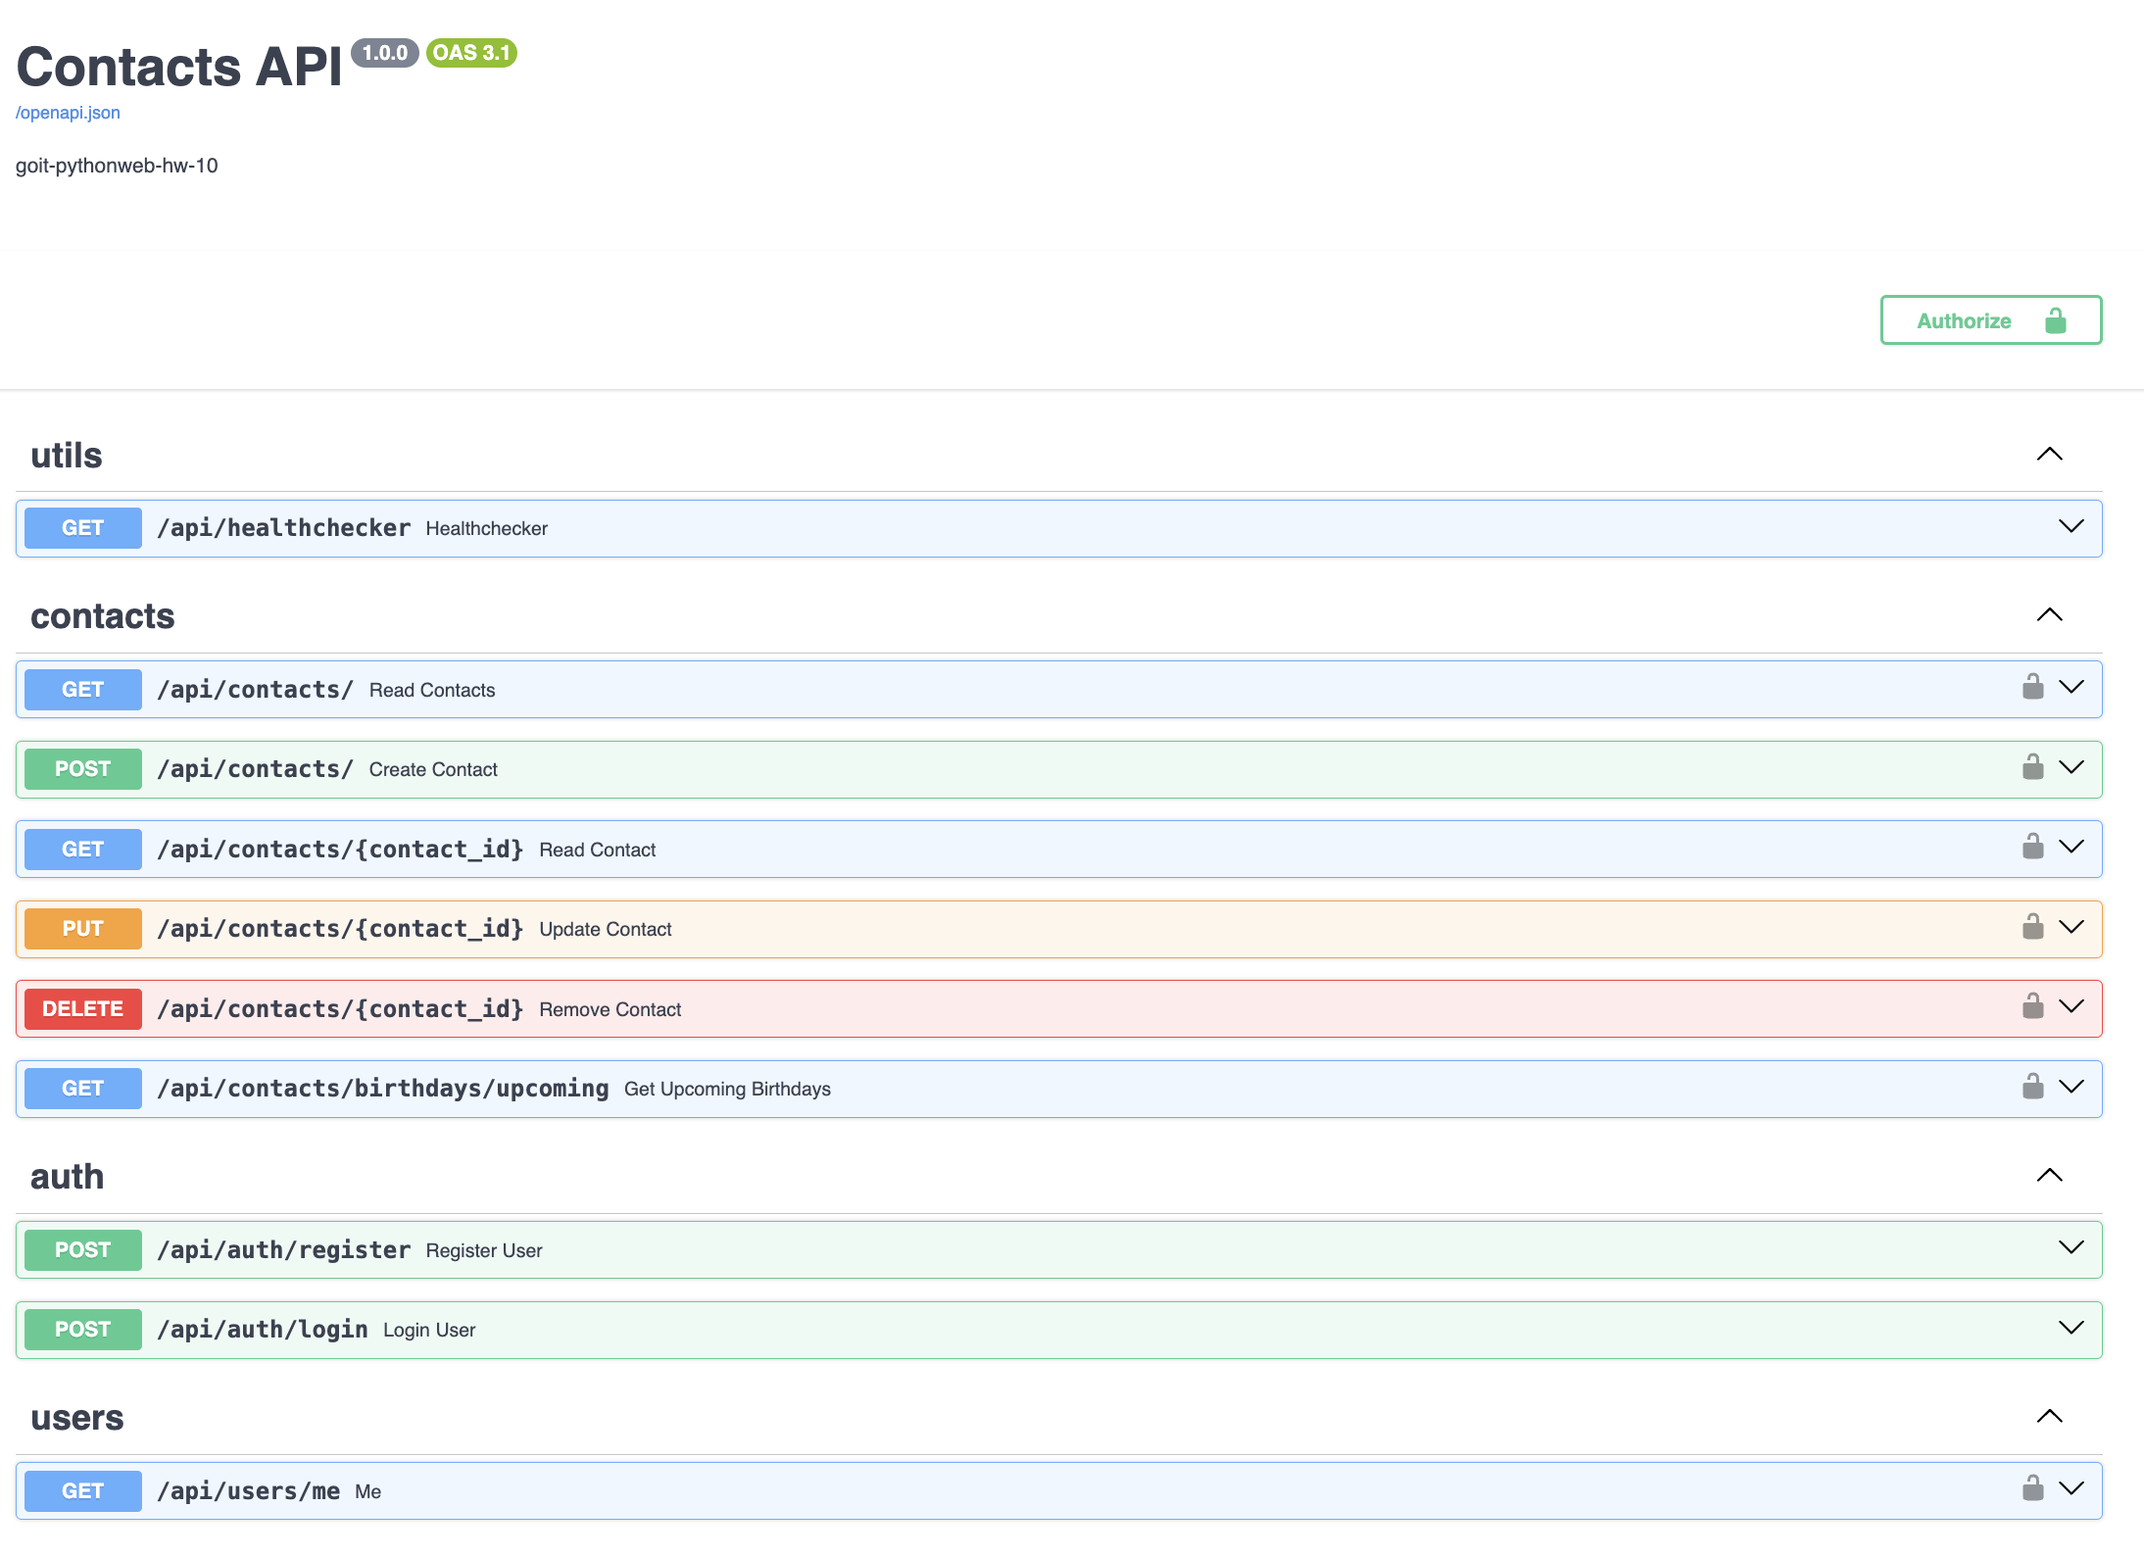
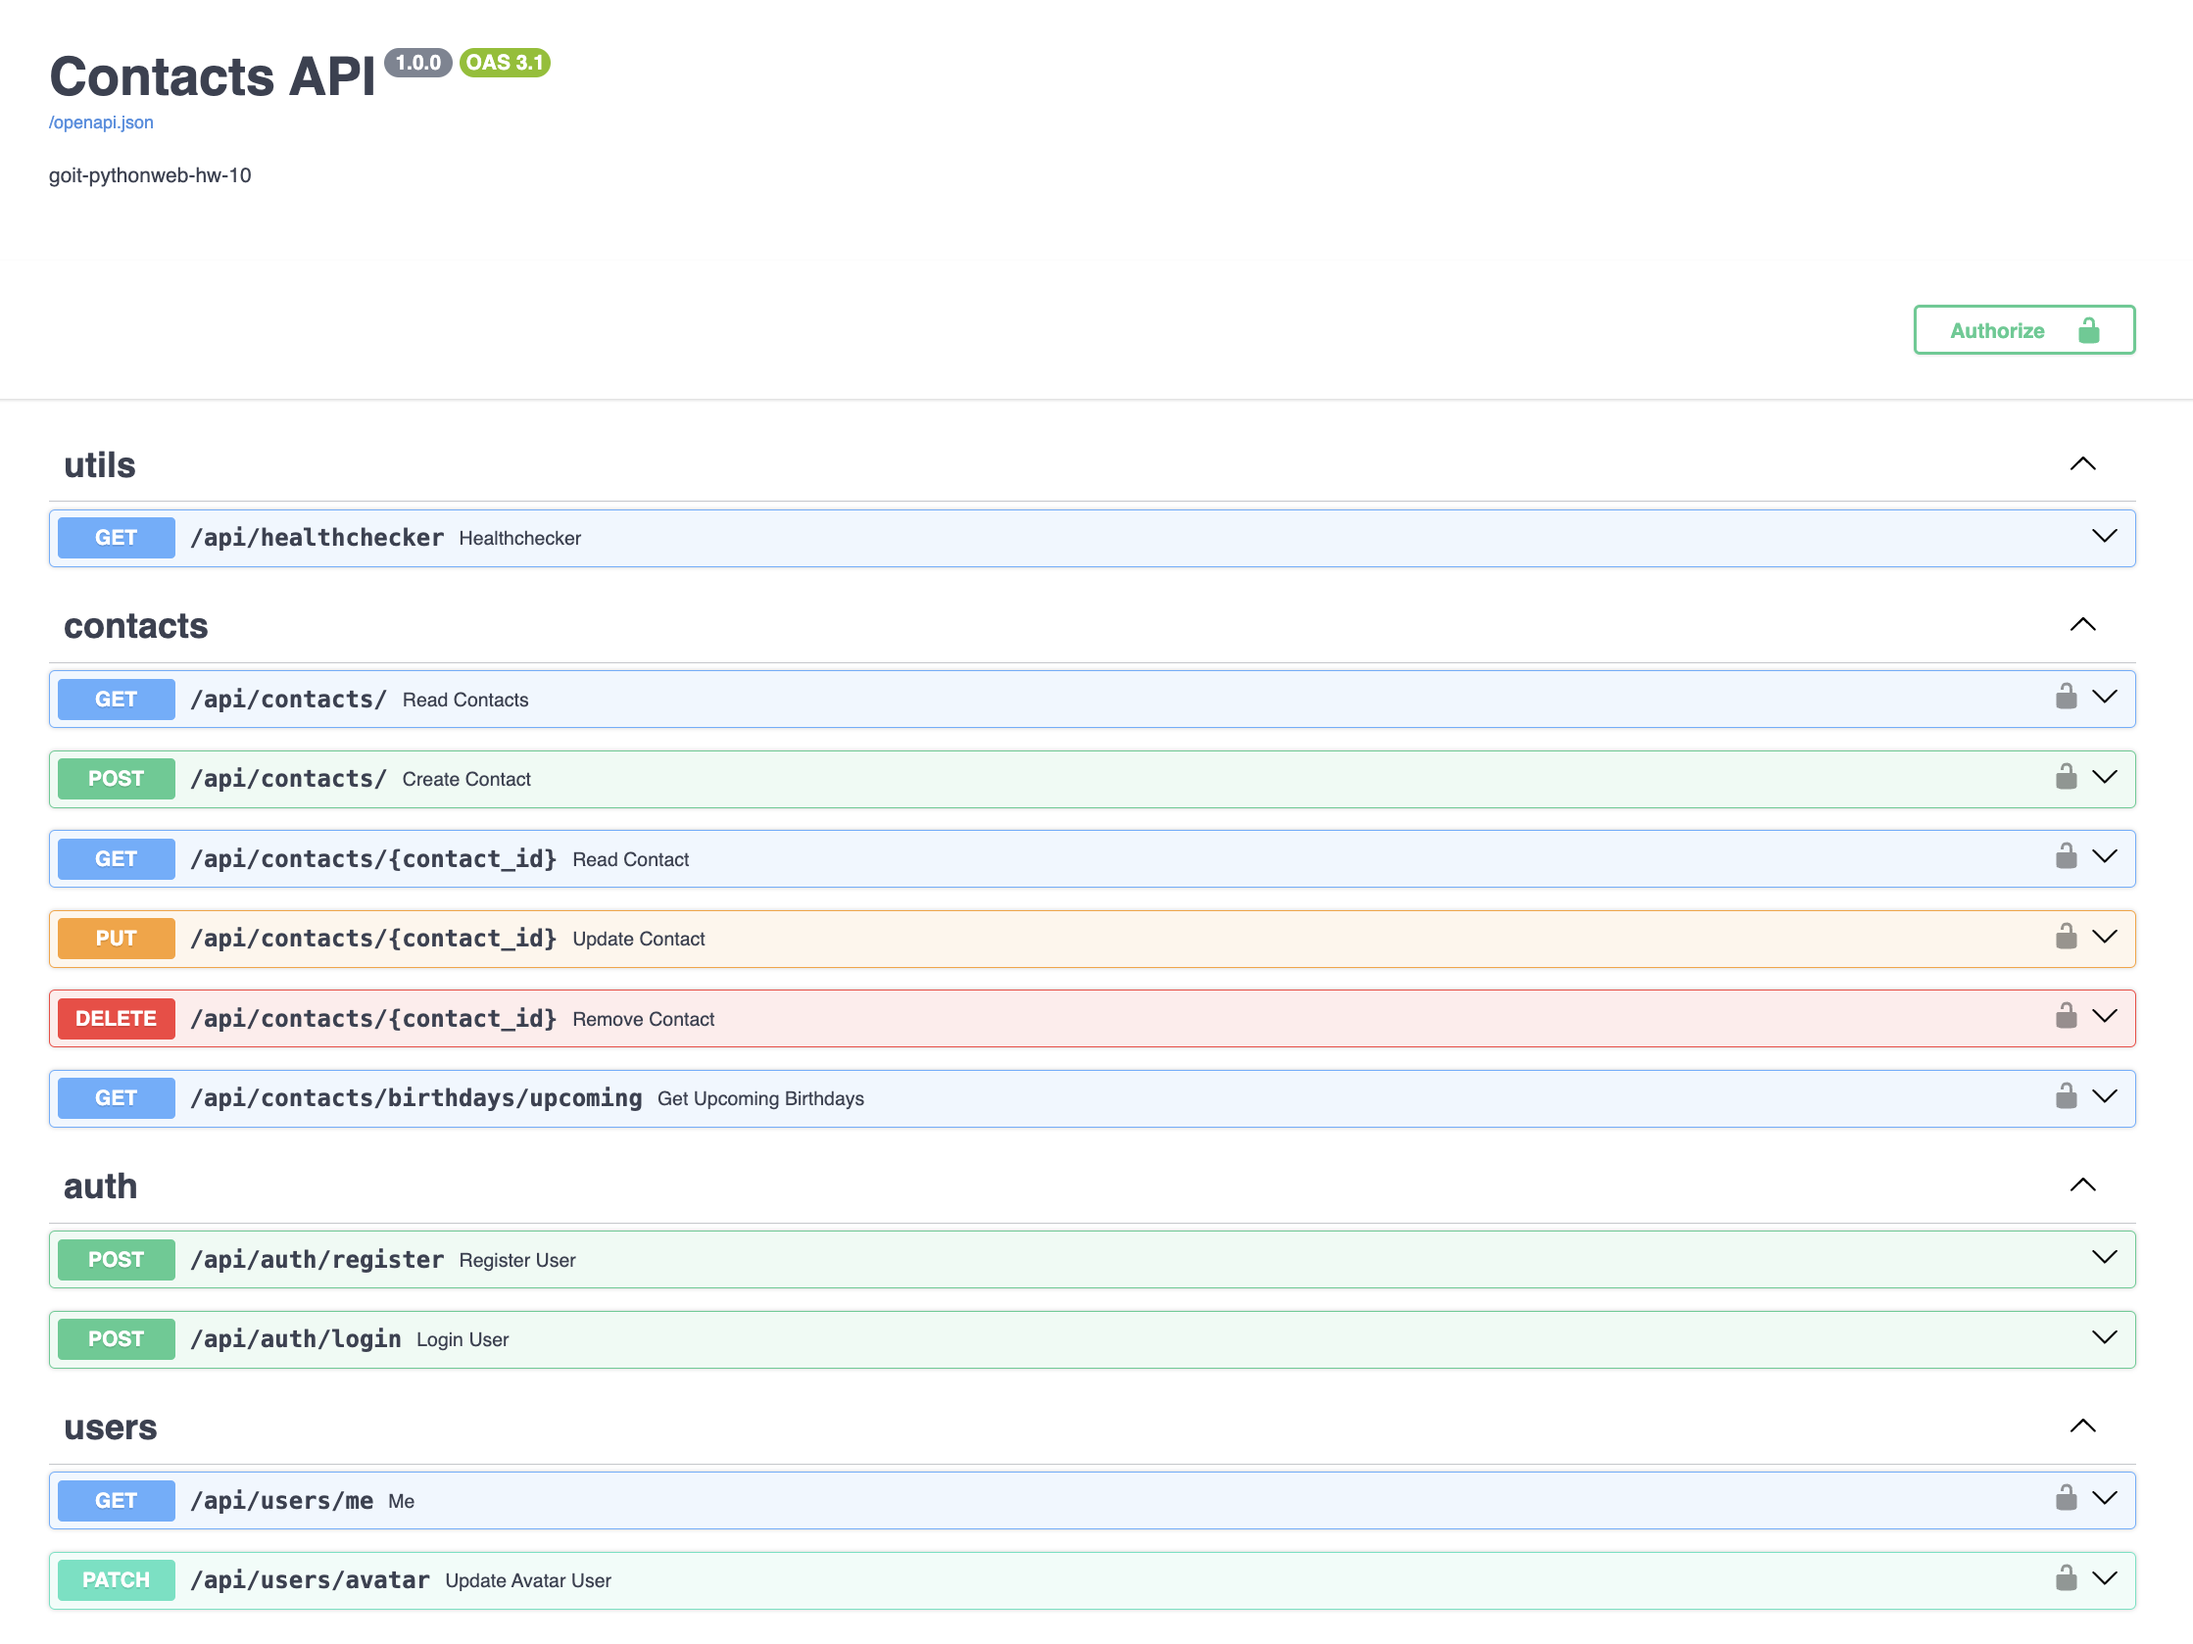
avtar upload via cloudinary

Changed region(s): [[0.0, 0.2777, 0.9634, 0.9874], [0.0, 0.0, 0.2486, 0.1234], [0.8702, 0.1851, 0.9945, 0.216]]

diff --git a/src/api/users.py b/src/api/users.py
@@ -1,9 +1,14 @@
-from fastapi import APIRouter, Depends, Request
+from fastapi import APIRouter, Depends, File, Request, UploadFile
 from slowapi import Limiter
 from slowapi.util import get_remote_address
+from sqlalchemy.ext.asyncio import AsyncSession
+from src.database.db import get_db
 
 from src.schemas import User
+from src.conf.config import settings
 from src.services.auth import get_current_user
+from src.services.users import UserService
+from src.services.upload_file import UploadFileService
 
 router = APIRouter(prefix="/users", tags=["users"])
 limiter = Limiter(key_func=get_remote_address)
@@ -13,3 +18,17 @@ limiter = Limiter(key_func=get_remote_address)
 @limiter.limit("10/minute")
 async def me(request: Request, user: User = Depends(get_current_user)):
     return user
+
+
+@router.patch("/avatar", response_model=User)
+async def update_avatar_user(
+    file: UploadFile = File(),
+    user: User = Depends(get_current_user),
+    db: AsyncSession = Depends(get_db),
+):
+    avatar_url = UploadFileService(
+        settings.CLD_NAME, settings.CLD_API_KEY, settings.CLD_API_SECRET
+    ).upload_file(file, user.username)
+
+    user_service = UserService(db)
+    return await user_service.update_avatar_url(user.email, avatar_url)

diff --git a/src/services/upload_file.py b/src/services/upload_file.py
@@ -1,0 +1,24 @@
+import cloudinary
+import cloudinary.uploader
+
+
+class UploadFileService:
+    def __init__(self, cloud_name, api_key, api_secret):
+        self.cloud_name = cloud_name
+        self.api_key = api_key
+        self.api_secret = api_secret
+        cloudinary.config(
+            cloud_name=self.cloud_name,
+            api_key=self.api_key,
+            api_secret=self.api_secret,
+            secure=True,
+        )
+
+    @staticmethod
+    def upload_file(file, username) -> str:
+        public_id = f"RestApp/{username}"
+        r = cloudinary.uploader.upload(file.file, public_id=public_id, overwrite=True)
+        src_url = cloudinary.CloudinaryImage(public_id).build_url(
+            width=250, height=250, crop="fill", version=r.get("version")
+        )
+        return src_url

diff --git a/src/repository/users.py b/src/repository/users.py
@@ -35,3 +35,13 @@ class UserRepository:
         await self.db.commit()
         await self.db.refresh(user)
         return user
+
+    async def update_avatar_url(self, email: str, url: str) -> User:
+        user = await self.get_user_by_email(email)
+        if user:
+            user.avatar = url
+            await self.db.commit()
+            await self.db.refresh(user)
+            return user
+        else:
+            raise ValueError("User not found")

diff --git a/src/services/auth.py b/src/services/auth.py
@@ -43,7 +43,6 @@ async def create_access_token(data: dict, expires_delta: Optional[int] = None):
 async def get_current_user(
     token: str = Depends(oauth2_scheme), db: AsyncSession = Depends(get_db)
 ):
-    print(jwt)
     credentials_exception = HTTPException(
         status_code=status.HTTP_401_UNAUTHORIZED,
         detail="Could not validate credentials",

diff --git a/src/services/users.py b/src/services/users.py
@@ -28,3 +28,6 @@ class UserService:
 
     async def get_user_by_email(self, email: str):
         return await self.repository.get_user_by_email(email)
+
+    async def update_avatar_url(self, email: str, url: str):
+        return await self.repository.update_avatar_url(email, url)

diff --git a/src/conf/config.py b/src/conf/config.py
@@ -7,6 +7,9 @@ class Settings(BaseSettings):
     JWT_SECRET: str
     JWT_ALGORITHM: str = "HS256"
     JWT_EXPIRATION_SECONDS: int = 3600
+    CLD_NAME: str
+    CLD_API_KEY: int
+    CLD_API_SECRET: str
 
     model_config = ConfigDict(
         extra="ignore",

diff --git a/README.md b/README.md
@@ -18,6 +18,7 @@
 - Gravatar
 - Dotenv
 - Slowapi
+- Cloudinary
 
 ## Технічнe завдання
 
@@ -54,6 +55,9 @@ DB_PORT=5432
 DB_HOST=<host>
 DB_URL=postgresql+asyncpg://${DB_USER}:${DB_PASSWORD}@${DB_HOST}:${DB_PORT}/${DB_NAME}
 
+CLD_NAME=<your cloudinary name>
+CLD_API_KEY=<your cloudinary API key>
+CLD_API_SECRET=<your cloudinary API secret>
 ```
 
 4. Використайте Docker Compose для побудови і запуску середовища.
